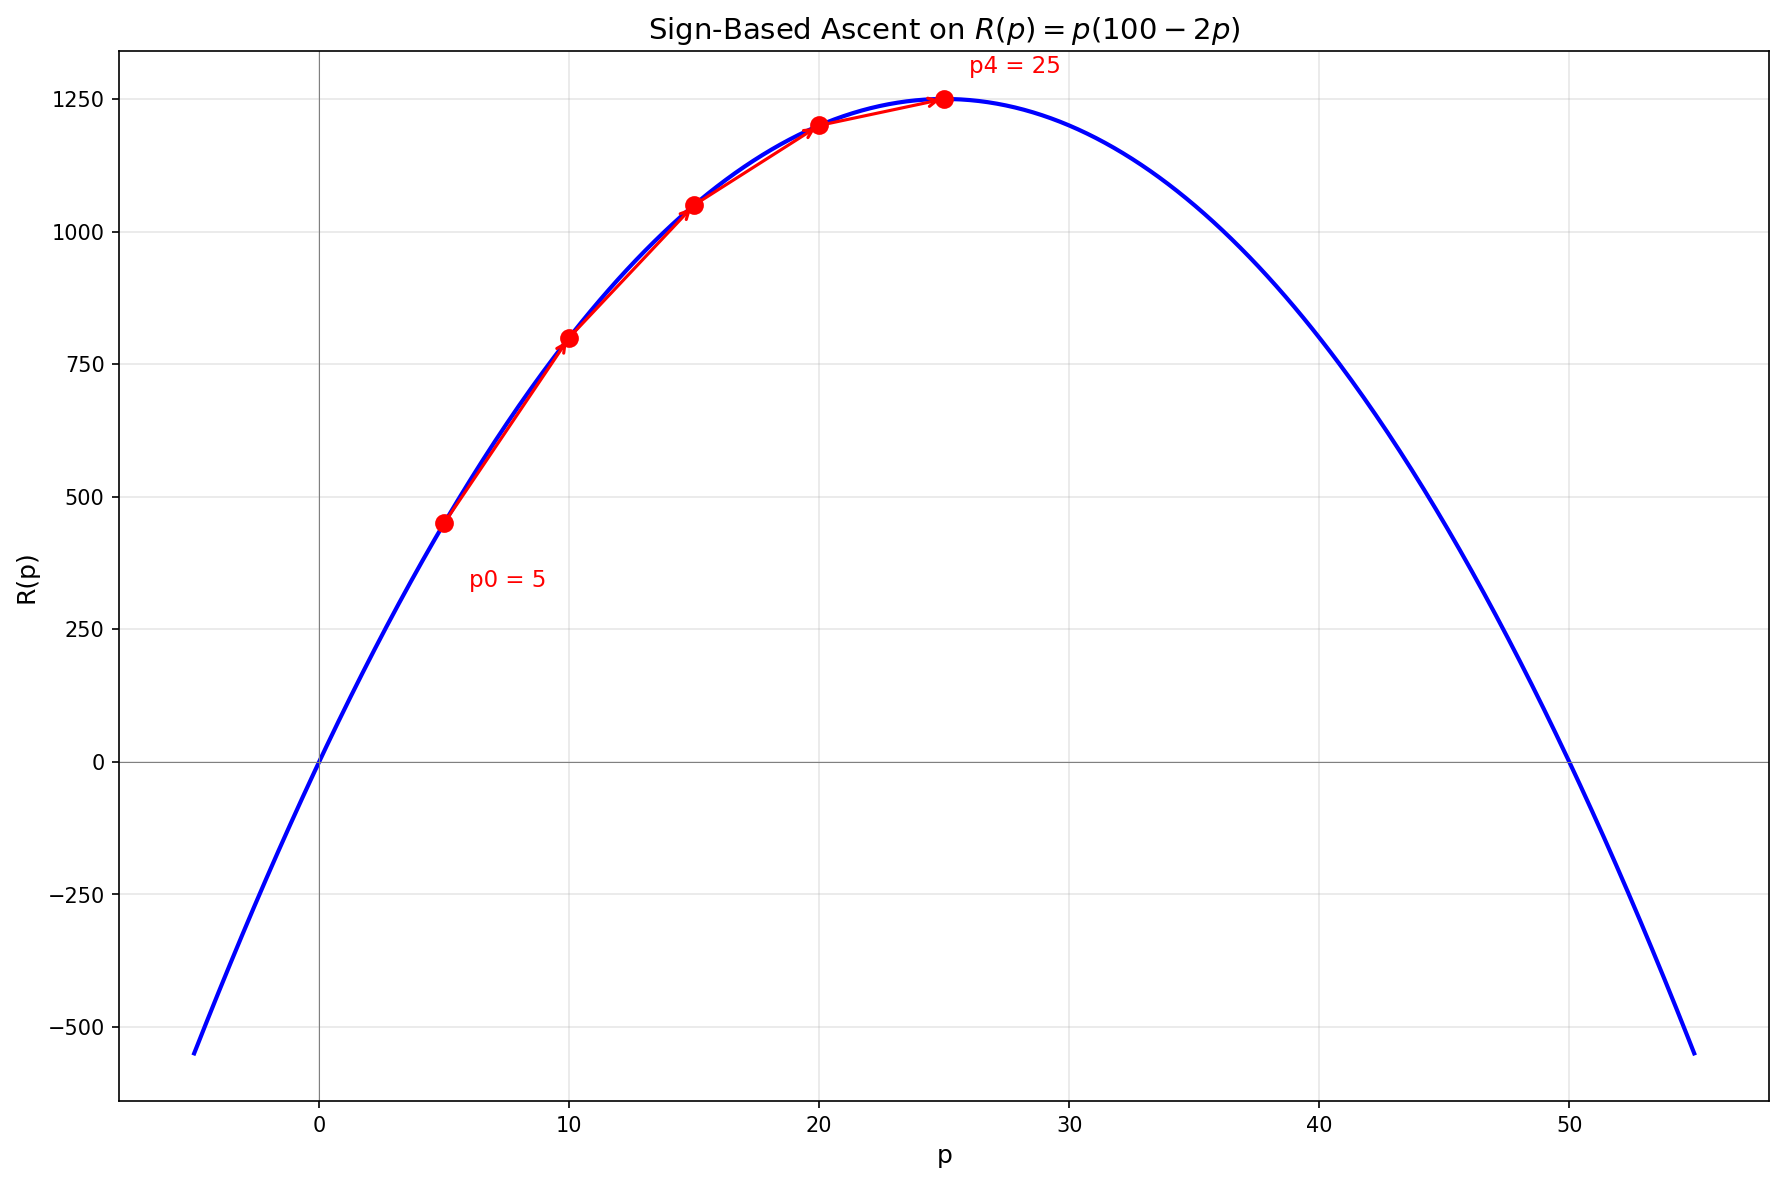
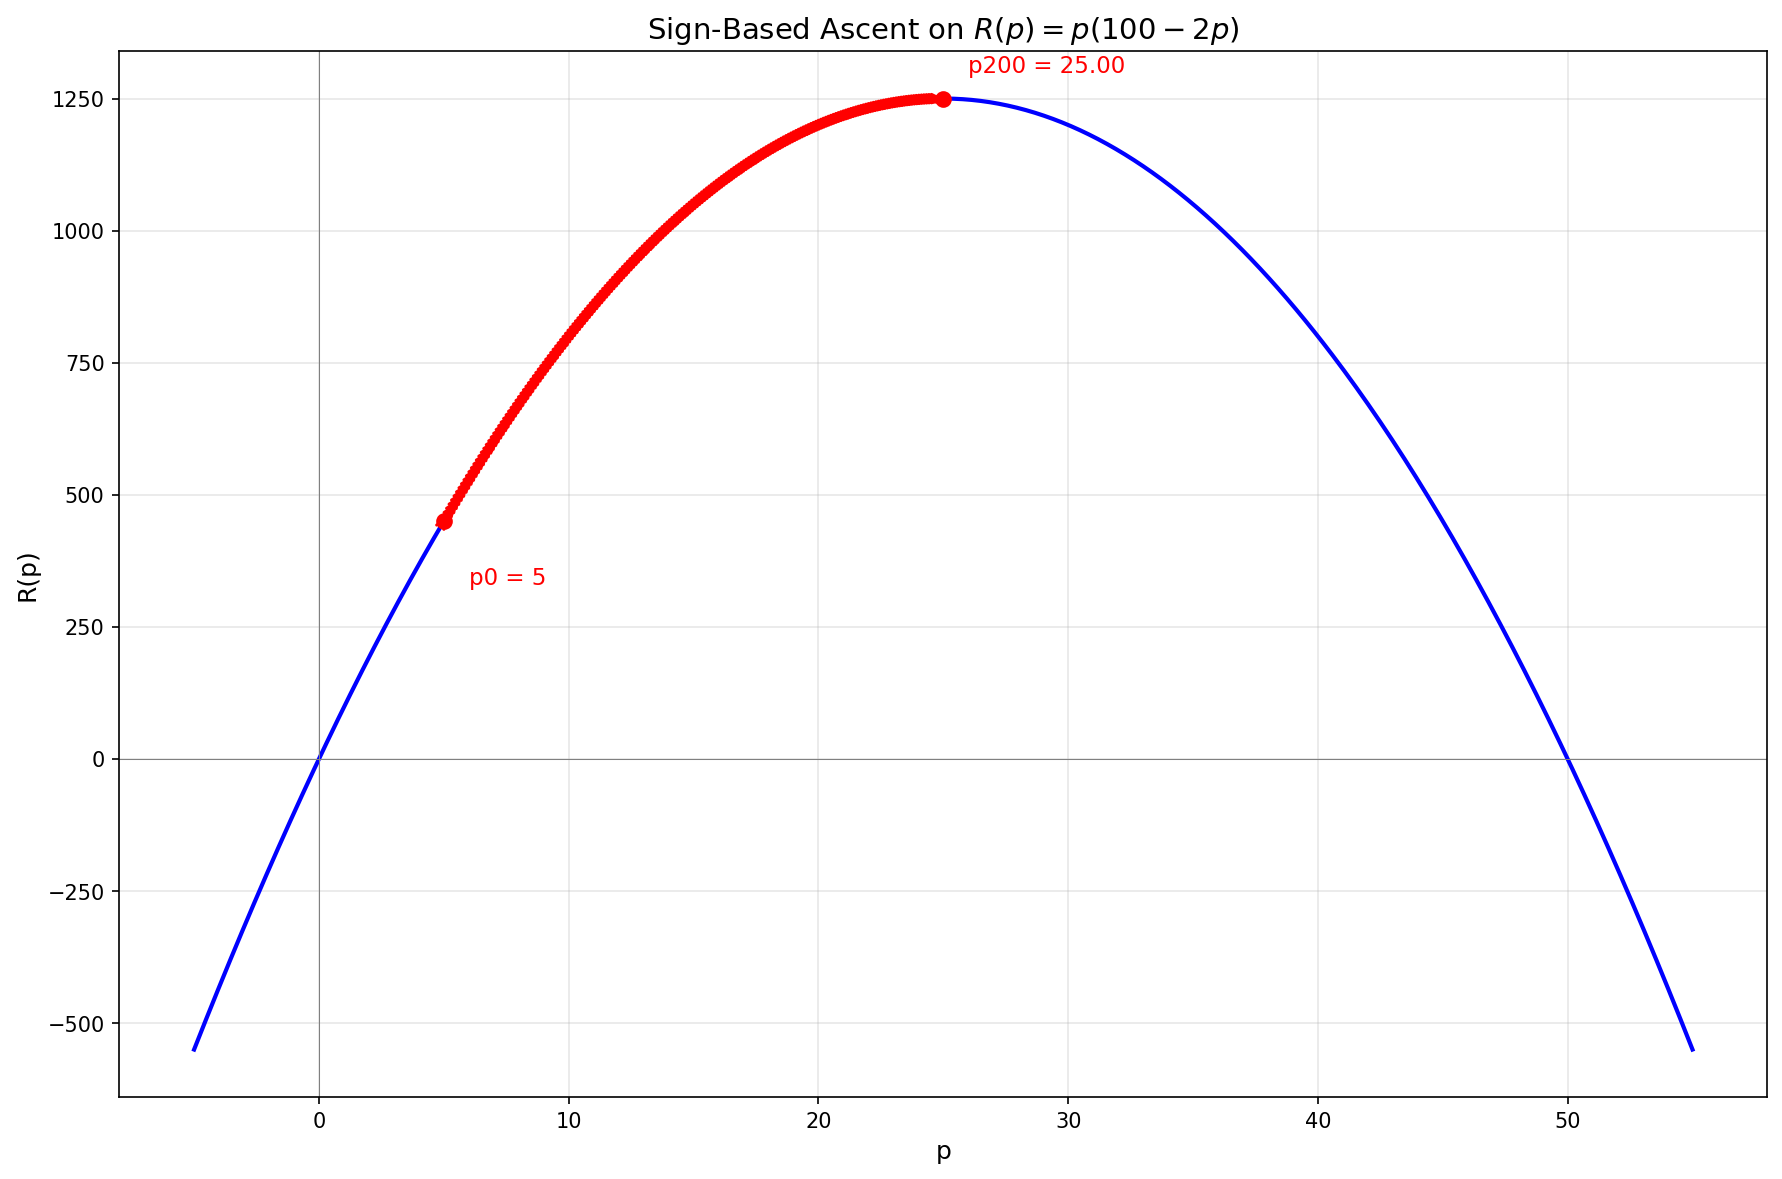
Unify step size notation and regenerate plots

diff --git a/scripts/generate_ml_optimization_plots.py b/scripts/generate_ml_optimization_plots.py
@@ -63,19 +63,23 @@ def plot_quadratic_sign_ascent():
     p = np.linspace(-5, 55, 500)
     ax.plot(p, R(p), "b-", linewidth=2)
 
-    # Sign-based ascent: p_{n+1} = p_n + s * sign(R'(p_n))
-    step_size = 5
+    # Sign-based ascent: p_{n+1} = p_n + alpha * sign(R'(p_n))
+    alpha = 0.1
     p_vals = [5.0]
-    for _ in range(4):
+    tol = 1e-6
+    max_steps = 500
+    for _ in range(max_steps):
         grad = R_prime(p_vals[-1])
-        if grad == 0:
+        if abs(grad) <= tol:
             break
-        p_new = p_vals[-1] + step_size * np.sign(grad)
+        p_new = p_vals[-1] + alpha * np.sign(grad)
         p_vals.append(p_new)
 
     # Plot points and arrows
+    last_idx = len(p_vals) - 1
     for i, p_i in enumerate(p_vals):
-        ax.plot(p_i, R(p_i), "ro", markersize=8)
+        marker_size = 7 if i in (0, last_idx) else 3
+        ax.plot(p_i, R(p_i), "ro", markersize=marker_size)
 
         # Draw arrow to next point
         if i < len(p_vals) - 1:
@@ -96,7 +100,7 @@ def plot_quadratic_sign_ascent():
         color="red",
     )
     ax.annotate(
-        f"p4 = {p_vals[-1]:.0f}",
+        f"p{last_idx} = {p_vals[-1]:.2f}",
         xy=(p_vals[-1], R(p_vals[-1])),
         xytext=(p_vals[-1] + 1, R(p_vals[-1]) + 50),
         fontsize=11,
